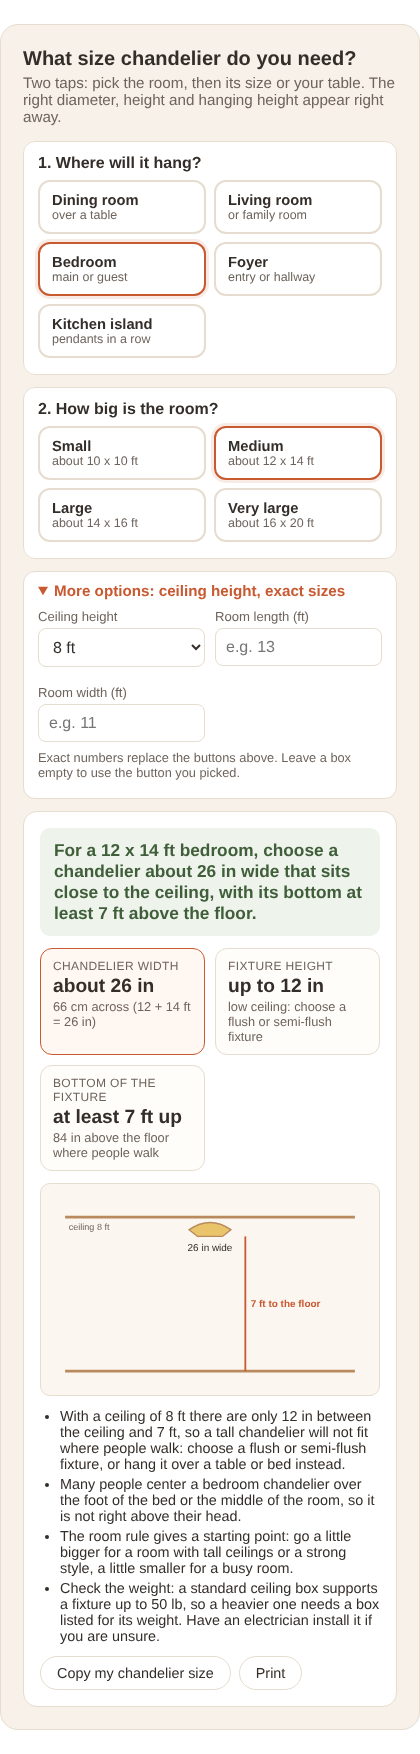
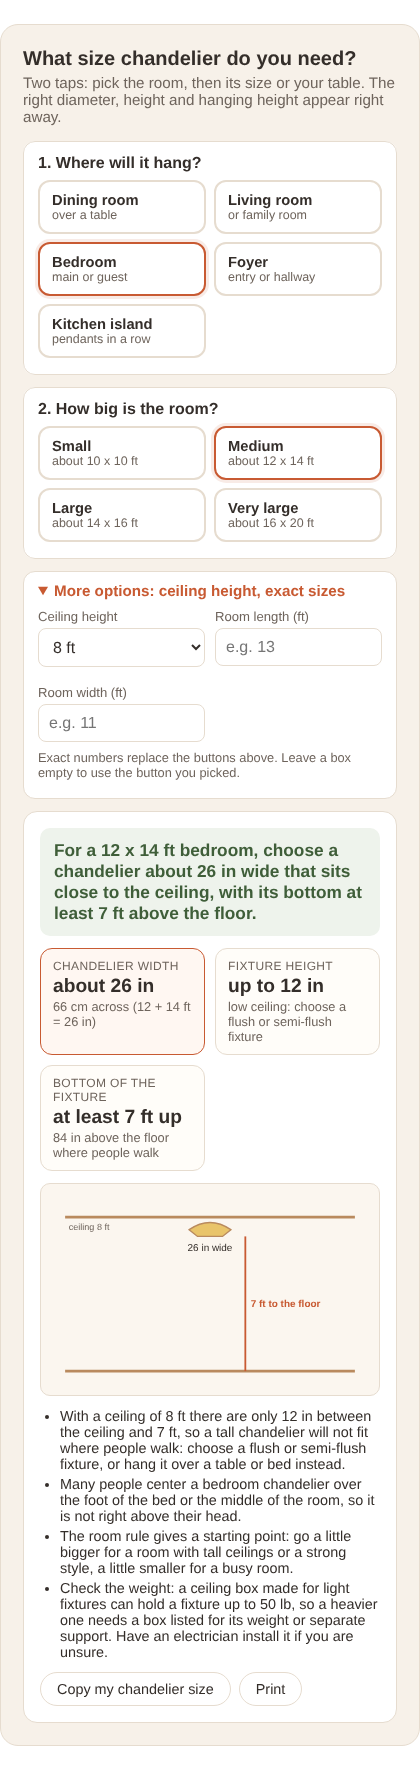
Chandelier: fact-check fixes
Claude-Session: https://claude.ai/code/session_01NA5LVV4VZ27gRjP7KysXbg

diff --git a/tools/chandelier-calc/content.html b/tools/chandelier-calc/content.html
@@ -143,32 +143,32 @@ R.querySelectorAll('.xr').forEach(function(x){x.classList.toggle('hide',room==='
 var bLo=Math.round(ceil*2.5),bHi=Math.round(ceil*3);
 if(room==='dining'){var p=tb.split('x'),tw=parseFloat(p[0]),tl=parseFloat(p[1]);if(num('tw')){tw=num('tw')}if(num('tl')){tl=num('tl')}if(tw>tl){var t=tl;tl=tw;tw=t}
 var dLo=Math.round(tw/2),dHi=Math.round(Math.min(tw*2/3,tw-12));if(dLo>dHi){dHi=dLo}
-var hLo=30+3*Math.max(0,ceil-8),hHi=36+3*Math.max(0,ceil-8);var longT=tl>=tw*1.6;
+var hLo=30+3*Math.min(4,Math.max(0,ceil-8)),hHi=36+3*Math.min(4,Math.max(0,ceil-8));var longT=tl>=tw*1.6;
 $('k1t').textContent='Chandelier width';$('k1').textContent=dLo+' to '+dHi+' in';$('k1e').textContent=cm(dLo)+' to '+cm(dHi)+' across';
 $('k2t').textContent='Fixture height';$('k2').textContent=bLo+' to '+bHi+' in';$('k2e').textContent='2.5 to 3 in per foot of ceiling';
-$('k3t').textContent='Bottom above the table';$('k3').textContent=hLo+' to '+hHi+' in';$('k3e').textContent=ceil>8?'+3 in for each foot over 8 ft':'standard 8 ft ceiling';
+$('k3t').textContent='Bottom above the table';$('k3').textContent=hLo+' to '+hHi+' in';$('k3e').textContent=ceil>12?'+3 in per foot over 8 ft, up to 12 ft':ceil>8?'+3 in for each foot over 8 ft':'standard 8 ft ceiling';
 vv.textContent='For a '+tw+' x '+tl+' in table, choose a chandelier about '+dLo+' to '+dHi+' in wide and hang its bottom '+hLo+' to '+hHi+' in above the tabletop.';
-if(longT){tips.push('Your table is long: a linear chandelier about '+Math.round(tl/3)+' to '+Math.round(tl*2/3)+' in long, or two smaller fixtures, lights it more evenly than one round chandelier.')}
+if(longT){tips.push('Your table is long: a linear chandelier about '+Math.round(tl/2)+' to '+Math.round(tl*2/3)+' in long, or two smaller fixtures, lights it more evenly than one round chandelier.')}
 tips.push('Keep the edge of the chandelier at least 6 in inside the table edge so nobody bumps it when they stand up.');
 tips.push('Center it over the table, not the room, if the table is off-center.');
 $('vz').innerHTML=viz(ceil,(dLo+dHi)/2,(bLo+bHi)/2,30+(hLo+hHi)/2,'table',tw);
 summary='Dining chandelier for a '+tw+' x '+tl+' in table: '+dLo+'-'+dHi+' in wide, '+bLo+'-'+bHi+' in tall, bottom '+hLo+'-'+hHi+' in above the table. dailyspacehacks.com/chandelier-size-calculator/'}
 else if(room==='island'){var L=num('il')?num('il'):isl;var n=Math.max(1,Math.min(6,Math.floor((L-12)/30)+1));
 var gap=n>1?Math.round(Math.min(30,(L-12)/(n-1))):0;var endo=Math.round((L-(n-1)*gap)/2);
-var maxW=n>1?Math.max(8,gap-12):Math.round(Math.min(24,L/3));var hLo2=30+3*Math.max(0,ceil-8),hHi2=36+3*Math.max(0,ceil-8);
+var maxW=n>1?Math.max(8,Math.min(gap-12,2*endo)):Math.round(Math.min(24,L/3));var hLo2=30,hHi2=36;
 $('k1t').textContent='Pendants';$('k1').textContent=n+(n===1?' pendant':' pendants');$('k1e').textContent=n>1?'about '+gap+' in apart, center to center':'centered over the island';
 $('k2t').textContent='Each pendant';$('k2').textContent='up to about '+maxW+' in wide';$('k2e').textContent='our estimate, leaves a gap between shades';
-$('k3t').textContent='Bottom above the counter';$('k3').textContent=hLo2+' to '+hHi2+' in';$('k3e').textContent=ceil>8?'+3 in for each foot over 8 ft':'standard 8 ft ceiling';
+$('k3t').textContent='Bottom above the counter';$('k3').textContent=hLo2+' to '+hHi2+' in';$('k3e').textContent='the usual range for task light';
 vv.textContent='For a '+ftin(L)+' island, hang '+n+(n===1?' pendant':' pendants')+(n>1?' about '+gap+' in apart':'')+', with the end pendants about '+endo+' in in from each end and the bottoms '+hLo2+' to '+hHi2+' in above the counter.';
 tips.push('Measure center to center, and keep the center of each end pendant at least 6 in in from the end of the island.');
 tips.push('Clear glass or open shades keep the view across the kitchen open; solid shades give more focused task light.');
-$('vz').innerHTML=viz(ceil,Math.min(maxW,18),12,36+(hLo2+hHi2)/2,'table',L);
+$('vz').innerHTML=viz(ceil,Math.min(maxW,18),12,30+(hLo2+hHi2)/2,'table',L);
 summary='Kitchen island '+Math.round(L)+' in: '+n+' pendants'+(n>1?' about '+gap+' in apart':'')+', bottoms '+hLo2+'-'+hHi2+' in above the counter. dailyspacehacks.com/chandelier-size-calculator/'}
 else{var q=rs.split('x'),rl=parseFloat(q[0]),rw=parseFloat(q[1]);if(num('rl')){rl=num('rl')}if(num('rw')){rw=num('rw')}
 var d=Math.round(rl+rw);var minB=84;var maxBody=H-minB;var two=ceil>=16;
 $('k1t').textContent='Chandelier width';$('k1').textContent='about '+d+' in';$('k1e').textContent=cm(d)+' across ('+rl+' + '+rw+' ft = '+d+' in)';
 $('k2t').textContent='Fixture height';
-if(bLo>maxBody){$('k2').textContent='up to '+Math.max(0,maxBody)+' in';$('k2e').textContent='low ceiling: choose a flush or semi-flush fixture'}else{$('k2').textContent=bLo+' to '+bHi+' in';$('k2e').textContent='2.5 to 3 in per foot of ceiling'}
+if(bLo>maxBody){$('k2').textContent='up to '+Math.max(0,maxBody)+' in';$('k2e').textContent='low ceiling: choose a flush or semi-flush fixture'}else{$('k2').textContent=bLo+' to '+Math.min(bHi,maxBody)+' in';$('k2e').textContent='2.5 to 3 in per foot of ceiling'}
 $('k3t').textContent='Bottom of the fixture';$('k3').textContent=two?'at the 2nd floor level':'at least 7 ft up';$('k3e').textContent=two?'and at least 7 ft above the floor':'84 in above the floor where people walk';
 var nm={living:'living room',bedroom:'bedroom',foyer:'foyer'}[room];
 vv.textContent='For a '+rl+' x '+rw+' ft '+nm+', choose a chandelier about '+d+' in wide'+(bLo>maxBody?' that sits close to the ceiling,':',')+' with its bottom at least 7 ft above the floor.';
@@ -176,9 +176,9 @@ if(bLo>maxBody){tips.push('With a ceiling of '+ceil+' ft there are only '+maxBod
 if(room==='foyer'){tips.push(two?'In a two-story foyer, line the chandelier up with the second-floor landing so it looks right from upstairs too.':'In a one-story entry, keep the bottom at least 7 ft above the floor and clear of the door swing.')}
 if(room==='bedroom'){tips.push('Many people center a bedroom chandelier over the foot of the bed or the middle of the room, so it is not right above their head.')}
 tips.push('The room rule gives a starting point: go a little bigger for a room with tall ceilings or a strong style, a little smaller for a busy room.');
-$('vz').innerHTML=viz(ceil,d,bLo>maxBody?Math.max(6,maxBody):(bLo+bHi)/2,two?H-36:Math.max(84,H-((bLo>maxBody?Math.max(6,maxBody):(bLo+bHi)/2))-12),'room',0);
+$('vz').innerHTML=viz(ceil,d,bLo>maxBody?Math.max(6,maxBody):(bLo+bHi)/2,two?H-(bLo+bHi)/2-24:Math.max(84,H-((bLo>maxBody?Math.max(6,maxBody):(bLo+bHi)/2))-12),'room',0);
 summary=nm.charAt(0).toUpperCase()+nm.slice(1)+' '+rl+' x '+rw+' ft: chandelier about '+d+' in wide, bottom at least 7 ft above the floor (ceiling '+ceil+' ft). dailyspacehacks.com/chandelier-size-calculator/'}
-tips.push('Check the weight: a standard ceiling box supports a fixture up to 50 lb, so a heavier one needs a box listed for its weight. Have an electrician install it if you are unsure.');
+tips.push('Check the weight: a ceiling box made for light fixtures can hold a fixture up to 50 lb, so a heavier one needs a box listed for its weight or separate support. Have an electrician install it if you are unsure.');
 $('tp').innerHTML=tips.map(function(t){return '<li>'+t+'</li>'}).join('')}
 R.querySelectorAll('[data-r]').forEach(function(b){b.addEventListener('click',function(){room=b.getAttribute('data-r');pick('data-r',room);calc()})});
 R.querySelectorAll('[data-s]').forEach(function(b){b.addEventListener('click',function(){rs=b.getAttribute('data-s');pick('data-s',rs);$('rl').value='';$('rw').value='';calc()})});
@@ -215,7 +215,7 @@ calc();
 <!-- /wp:heading -->
 
 <!-- wp:paragraph -->
-<p>Over a table, the table matters more than the room. Visual Comfort suggests <a href="https://www.visualcomfort.com/inspiration/how-to-pick-the-right-chandelier-size-for-your-room/" target="_blank" rel="noopener">a fixture with a diameter that’s one half to two thirds the width of your table</a>, while Kohler says <a href="https://resources.kohler.com/webassets/kpna/brochures/KohlerLighting_QuickTipsGuide.pdf" target="_blank" rel="noopener">the ideal diameter for the chandelier is 12" less than the width of the table</a>. Our calculator uses whichever is smaller, so the chandelier never overhangs the edges.</p>
+<p>Over a table, the table matters more than the room. Visual Comfort suggests <a href="https://www.visualcomfort.com/inspiration/how-to-pick-the-right-chandelier-size-for-your-room/" target="_blank" rel="noopener">a fixture with a diameter that’s one half to two thirds the width of your table</a>, while, for a square table, Kohler says <a href="https://resources.kohler.com/webassets/kpna/brochures/KohlerLighting_QuickTipsGuide.pdf" target="_blank" rel="noopener">the ideal diameter for the chandelier is 12" less than the width of the table</a>. Our calculator uses whichever is smaller, so the chandelier never overhangs the edges.</p>
 <!-- /wp:paragraph -->
 
 <!-- wp:table -->
@@ -306,7 +306,7 @@ calc();
 <!-- /wp:image -->
 
 <!-- wp:paragraph -->
-<p>Lightopia's guide says to <a href="https://www.lightopia.com/kitchen-island-pendant-lighting-guide" target="_blank" rel="noopener">hang pendants 30 to 36 inches above the countertop</a> and to <a href="https://www.lightopia.com/kitchen-island-pendant-lighting-guide" target="_blank" rel="noopener">space pendants 24 to 30 inches apart, measured from the center of one fixture to the center of the next</a>, leaving at least 6 in from the end of the island to the center of the first pendant. As a rough guide, a 6 ft island takes 3 pendants and an 8 ft island takes 3 to 4.</p>
+<p>Lightopia's guide says to <a href="https://www.lightopia.com/kitchen-island-pendant-lighting-guide" target="_blank" rel="noopener">hang pendants 30 to 36 inches above the countertop</a> and to <a href="https://www.lightopia.com/kitchen-island-pendant-lighting-guide" target="_blank" rel="noopener">space pendants 24 to 30 inches apart, measured from the center of one fixture to the center of the next</a>, leaving at least 6 in from the end of the island to the center of the first pendant. As a rough guide, a 6 ft island takes 2 to 3 pendants and an 8 ft island takes 3.</p>
 <!-- /wp:paragraph -->
 
 <!-- wp:heading -->

diff --git a/tools/chandelier-calc/tool.html b/tools/chandelier-calc/tool.html
@@ -134,32 +134,32 @@ R.querySelectorAll('.xr').forEach(function(x){x.classList.toggle('hide',room==='
 var bLo=Math.round(ceil*2.5),bHi=Math.round(ceil*3);
 if(room==='dining'){var p=tb.split('x'),tw=parseFloat(p[0]),tl=parseFloat(p[1]);if(num('tw')){tw=num('tw')}if(num('tl')){tl=num('tl')}if(tw>tl){var t=tl;tl=tw;tw=t}
 var dLo=Math.round(tw/2),dHi=Math.round(Math.min(tw*2/3,tw-12));if(dLo>dHi){dHi=dLo}
-var hLo=30+3*Math.max(0,ceil-8),hHi=36+3*Math.max(0,ceil-8);var longT=tl>=tw*1.6;
+var hLo=30+3*Math.min(4,Math.max(0,ceil-8)),hHi=36+3*Math.min(4,Math.max(0,ceil-8));var longT=tl>=tw*1.6;
 $('k1t').textContent='Chandelier width';$('k1').textContent=dLo+' to '+dHi+' in';$('k1e').textContent=cm(dLo)+' to '+cm(dHi)+' across';
 $('k2t').textContent='Fixture height';$('k2').textContent=bLo+' to '+bHi+' in';$('k2e').textContent='2.5 to 3 in per foot of ceiling';
-$('k3t').textContent='Bottom above the table';$('k3').textContent=hLo+' to '+hHi+' in';$('k3e').textContent=ceil>8?'+3 in for each foot over 8 ft':'standard 8 ft ceiling';
+$('k3t').textContent='Bottom above the table';$('k3').textContent=hLo+' to '+hHi+' in';$('k3e').textContent=ceil>12?'+3 in per foot over 8 ft, up to 12 ft':ceil>8?'+3 in for each foot over 8 ft':'standard 8 ft ceiling';
 vv.textContent='For a '+tw+' x '+tl+' in table, choose a chandelier about '+dLo+' to '+dHi+' in wide and hang its bottom '+hLo+' to '+hHi+' in above the tabletop.';
-if(longT){tips.push('Your table is long: a linear chandelier about '+Math.round(tl/3)+' to '+Math.round(tl*2/3)+' in long, or two smaller fixtures, lights it more evenly than one round chandelier.')}
+if(longT){tips.push('Your table is long: a linear chandelier about '+Math.round(tl/2)+' to '+Math.round(tl*2/3)+' in long, or two smaller fixtures, lights it more evenly than one round chandelier.')}
 tips.push('Keep the edge of the chandelier at least 6 in inside the table edge so nobody bumps it when they stand up.');
 tips.push('Center it over the table, not the room, if the table is off-center.');
 $('vz').innerHTML=viz(ceil,(dLo+dHi)/2,(bLo+bHi)/2,30+(hLo+hHi)/2,'table',tw);
 summary='Dining chandelier for a '+tw+' x '+tl+' in table: '+dLo+'-'+dHi+' in wide, '+bLo+'-'+bHi+' in tall, bottom '+hLo+'-'+hHi+' in above the table. dailyspacehacks.com/chandelier-size-calculator/'}
 else if(room==='island'){var L=num('il')?num('il'):isl;var n=Math.max(1,Math.min(6,Math.floor((L-12)/30)+1));
 var gap=n>1?Math.round(Math.min(30,(L-12)/(n-1))):0;var endo=Math.round((L-(n-1)*gap)/2);
-var maxW=n>1?Math.max(8,gap-12):Math.round(Math.min(24,L/3));var hLo2=30+3*Math.max(0,ceil-8),hHi2=36+3*Math.max(0,ceil-8);
+var maxW=n>1?Math.max(8,Math.min(gap-12,2*endo)):Math.round(Math.min(24,L/3));var hLo2=30,hHi2=36;
 $('k1t').textContent='Pendants';$('k1').textContent=n+(n===1?' pendant':' pendants');$('k1e').textContent=n>1?'about '+gap+' in apart, center to center':'centered over the island';
 $('k2t').textContent='Each pendant';$('k2').textContent='up to about '+maxW+' in wide';$('k2e').textContent='our estimate, leaves a gap between shades';
-$('k3t').textContent='Bottom above the counter';$('k3').textContent=hLo2+' to '+hHi2+' in';$('k3e').textContent=ceil>8?'+3 in for each foot over 8 ft':'standard 8 ft ceiling';
+$('k3t').textContent='Bottom above the counter';$('k3').textContent=hLo2+' to '+hHi2+' in';$('k3e').textContent='the usual range for task light';
 vv.textContent='For a '+ftin(L)+' island, hang '+n+(n===1?' pendant':' pendants')+(n>1?' about '+gap+' in apart':'')+', with the end pendants about '+endo+' in in from each end and the bottoms '+hLo2+' to '+hHi2+' in above the counter.';
 tips.push('Measure center to center, and keep the center of each end pendant at least 6 in in from the end of the island.');
 tips.push('Clear glass or open shades keep the view across the kitchen open; solid shades give more focused task light.');
-$('vz').innerHTML=viz(ceil,Math.min(maxW,18),12,36+(hLo2+hHi2)/2,'table',L);
+$('vz').innerHTML=viz(ceil,Math.min(maxW,18),12,30+(hLo2+hHi2)/2,'table',L);
 summary='Kitchen island '+Math.round(L)+' in: '+n+' pendants'+(n>1?' about '+gap+' in apart':'')+', bottoms '+hLo2+'-'+hHi2+' in above the counter. dailyspacehacks.com/chandelier-size-calculator/'}
 else{var q=rs.split('x'),rl=parseFloat(q[0]),rw=parseFloat(q[1]);if(num('rl')){rl=num('rl')}if(num('rw')){rw=num('rw')}
 var d=Math.round(rl+rw);var minB=84;var maxBody=H-minB;var two=ceil>=16;
 $('k1t').textContent='Chandelier width';$('k1').textContent='about '+d+' in';$('k1e').textContent=cm(d)+' across ('+rl+' + '+rw+' ft = '+d+' in)';
 $('k2t').textContent='Fixture height';
-if(bLo>maxBody){$('k2').textContent='up to '+Math.max(0,maxBody)+' in';$('k2e').textContent='low ceiling: choose a flush or semi-flush fixture'}else{$('k2').textContent=bLo+' to '+bHi+' in';$('k2e').textContent='2.5 to 3 in per foot of ceiling'}
+if(bLo>maxBody){$('k2').textContent='up to '+Math.max(0,maxBody)+' in';$('k2e').textContent='low ceiling: choose a flush or semi-flush fixture'}else{$('k2').textContent=bLo+' to '+Math.min(bHi,maxBody)+' in';$('k2e').textContent='2.5 to 3 in per foot of ceiling'}
 $('k3t').textContent='Bottom of the fixture';$('k3').textContent=two?'at the 2nd floor level':'at least 7 ft up';$('k3e').textContent=two?'and at least 7 ft above the floor':'84 in above the floor where people walk';
 var nm={living:'living room',bedroom:'bedroom',foyer:'foyer'}[room];
 vv.textContent='For a '+rl+' x '+rw+' ft '+nm+', choose a chandelier about '+d+' in wide'+(bLo>maxBody?' that sits close to the ceiling,':',')+' with its bottom at least 7 ft above the floor.';
@@ -167,9 +167,9 @@ if(bLo>maxBody){tips.push('With a ceiling of '+ceil+' ft there are only '+maxBod
 if(room==='foyer'){tips.push(two?'In a two-story foyer, line the chandelier up with the second-floor landing so it looks right from upstairs too.':'In a one-story entry, keep the bottom at least 7 ft above the floor and clear of the door swing.')}
 if(room==='bedroom'){tips.push('Many people center a bedroom chandelier over the foot of the bed or the middle of the room, so it is not right above their head.')}
 tips.push('The room rule gives a starting point: go a little bigger for a room with tall ceilings or a strong style, a little smaller for a busy room.');
-$('vz').innerHTML=viz(ceil,d,bLo>maxBody?Math.max(6,maxBody):(bLo+bHi)/2,two?H-36:Math.max(84,H-((bLo>maxBody?Math.max(6,maxBody):(bLo+bHi)/2))-12),'room',0);
+$('vz').innerHTML=viz(ceil,d,bLo>maxBody?Math.max(6,maxBody):(bLo+bHi)/2,two?H-(bLo+bHi)/2-24:Math.max(84,H-((bLo>maxBody?Math.max(6,maxBody):(bLo+bHi)/2))-12),'room',0);
 summary=nm.charAt(0).toUpperCase()+nm.slice(1)+' '+rl+' x '+rw+' ft: chandelier about '+d+' in wide, bottom at least 7 ft above the floor (ceiling '+ceil+' ft). dailyspacehacks.com/chandelier-size-calculator/'}
-tips.push('Check the weight: a standard ceiling box supports a fixture up to 50 lb, so a heavier one needs a box listed for its weight. Have an electrician install it if you are unsure.');
+tips.push('Check the weight: a ceiling box made for light fixtures can hold a fixture up to 50 lb, so a heavier one needs a box listed for its weight or separate support. Have an electrician install it if you are unsure.');
 $('tp').innerHTML=tips.map(function(t){return '<li>'+t+'</li>'}).join('')}
 R.querySelectorAll('[data-r]').forEach(function(b){b.addEventListener('click',function(){room=b.getAttribute('data-r');pick('data-r',room);calc()})});
 R.querySelectorAll('[data-s]').forEach(function(b){b.addEventListener('click',function(){rs=b.getAttribute('data-s');pick('data-s',rs);$('rl').value='';$('rw').value='';calc()})});

diff --git a/tools/chandelier-calc/build.py b/tools/chandelier-calc/build.py
@@ -22,7 +22,7 @@ table(["Room size","Chandelier width","Room size","Chandelier width"],[
 p(f"The rule is used across the lighting industry. Visual Comfort puts it simply: {ext(VC,'the width and length in feet equals the ideal chandelier diameter in inches')}, and Lamps Plus and Kohler give the same method. Golden Lighting treats the result as {ext(GL,'the fixture’s minimum diameter in inches')}, so in a room with tall ceilings you can go a little bigger.")
 img(1)
 h2("Chandelier Size for a Dining Table")
-p(f"Over a table, the table matters more than the room. Visual Comfort suggests {ext(VC,'a fixture with a diameter that’s one half to two thirds the width of your table')}, while Kohler says {ext(KO,'the ideal diameter for the chandelier is 12\" less than the width of the table')}. Our calculator uses whichever is smaller, so the chandelier never overhangs the edges.")
+p(f"Over a table, the table matters more than the room. Visual Comfort suggests {ext(VC,'a fixture with a diameter that’s one half to two thirds the width of your table')}, while, for a square table, Kohler says {ext(KO,'the ideal diameter for the chandelier is 12\" less than the width of the table')}. Our calculator uses whichever is smaller, so the chandelier never overhangs the edges.")
 table(["Table","Chandelier width","Bottom above the table (8 ft ceiling)"],[
 ["36 in wide (4 seats)","18 to 24 in","30 to 36 in"],
 ["40 in wide (6 seats)","20 to 27 in","30 to 36 in"],
@@ -54,7 +54,7 @@ p("In a living room, center the chandelier in the room or over the main seating 
 img(5)
 h2("Kitchen Island Pendant Spacing")
 img(4)
-p(f"Lightopia's guide says to {ext(LT,'hang pendants 30 to 36 inches above the countertop')} and to {ext(LT,'space pendants 24 to 30 inches apart, measured from the center of one fixture to the center of the next')}, leaving at least 6 in from the end of the island to the center of the first pendant. As a rough guide, a 6 ft island takes 3 pendants and an 8 ft island takes 3 to 4.")
+p(f"Lightopia's guide says to {ext(LT,'hang pendants 30 to 36 inches above the countertop')} and to {ext(LT,'space pendants 24 to 30 inches apart, measured from the center of one fixture to the center of the next')}, leaving at least 6 in from the end of the island to the center of the first pendant. As a rough guide, a 6 ft island takes 2 to 3 pendants and an 8 ft island takes 3.")
 h2("Chandelier Safety and Installation")
 lst([f"<strong>Weight:</strong> under the National Electrical Code, as explained by EC&amp;M, {ext(EC,'outlet boxes for luminaires can support a luminaire that weighs up to 50 lb')}; a heavier fixture needs a box listed for its weight or separate support.",
 f"<strong>Box rating:</strong> Home Depot notes that {ext(HD,'most ceiling boxes can hold 50 pounds to 75 pounds')}, so check the box before you buy a heavy chandelier.",
